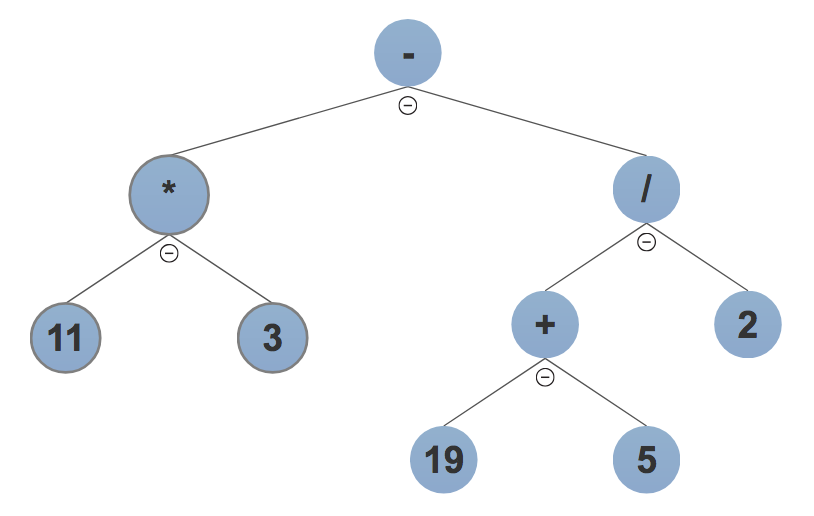
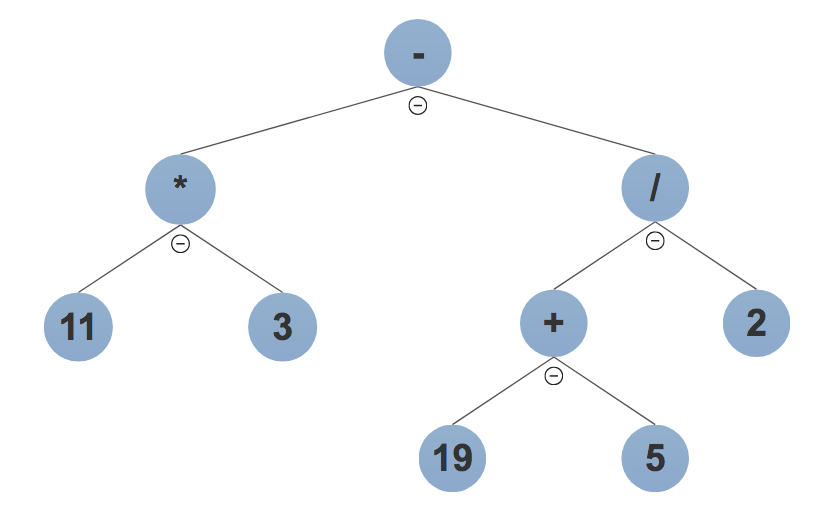
correct image added to readme

diff --git a/README.md b/README.md
@@ -45,4 +45,4 @@ Console calculator implemented in 4 steps:
 ]
 ```
 4. Expression tree  
-![Expression tree]()
+![Expression tree](https://github.com/Margi47/Calculator/blob/master/ExampleTree.png)
